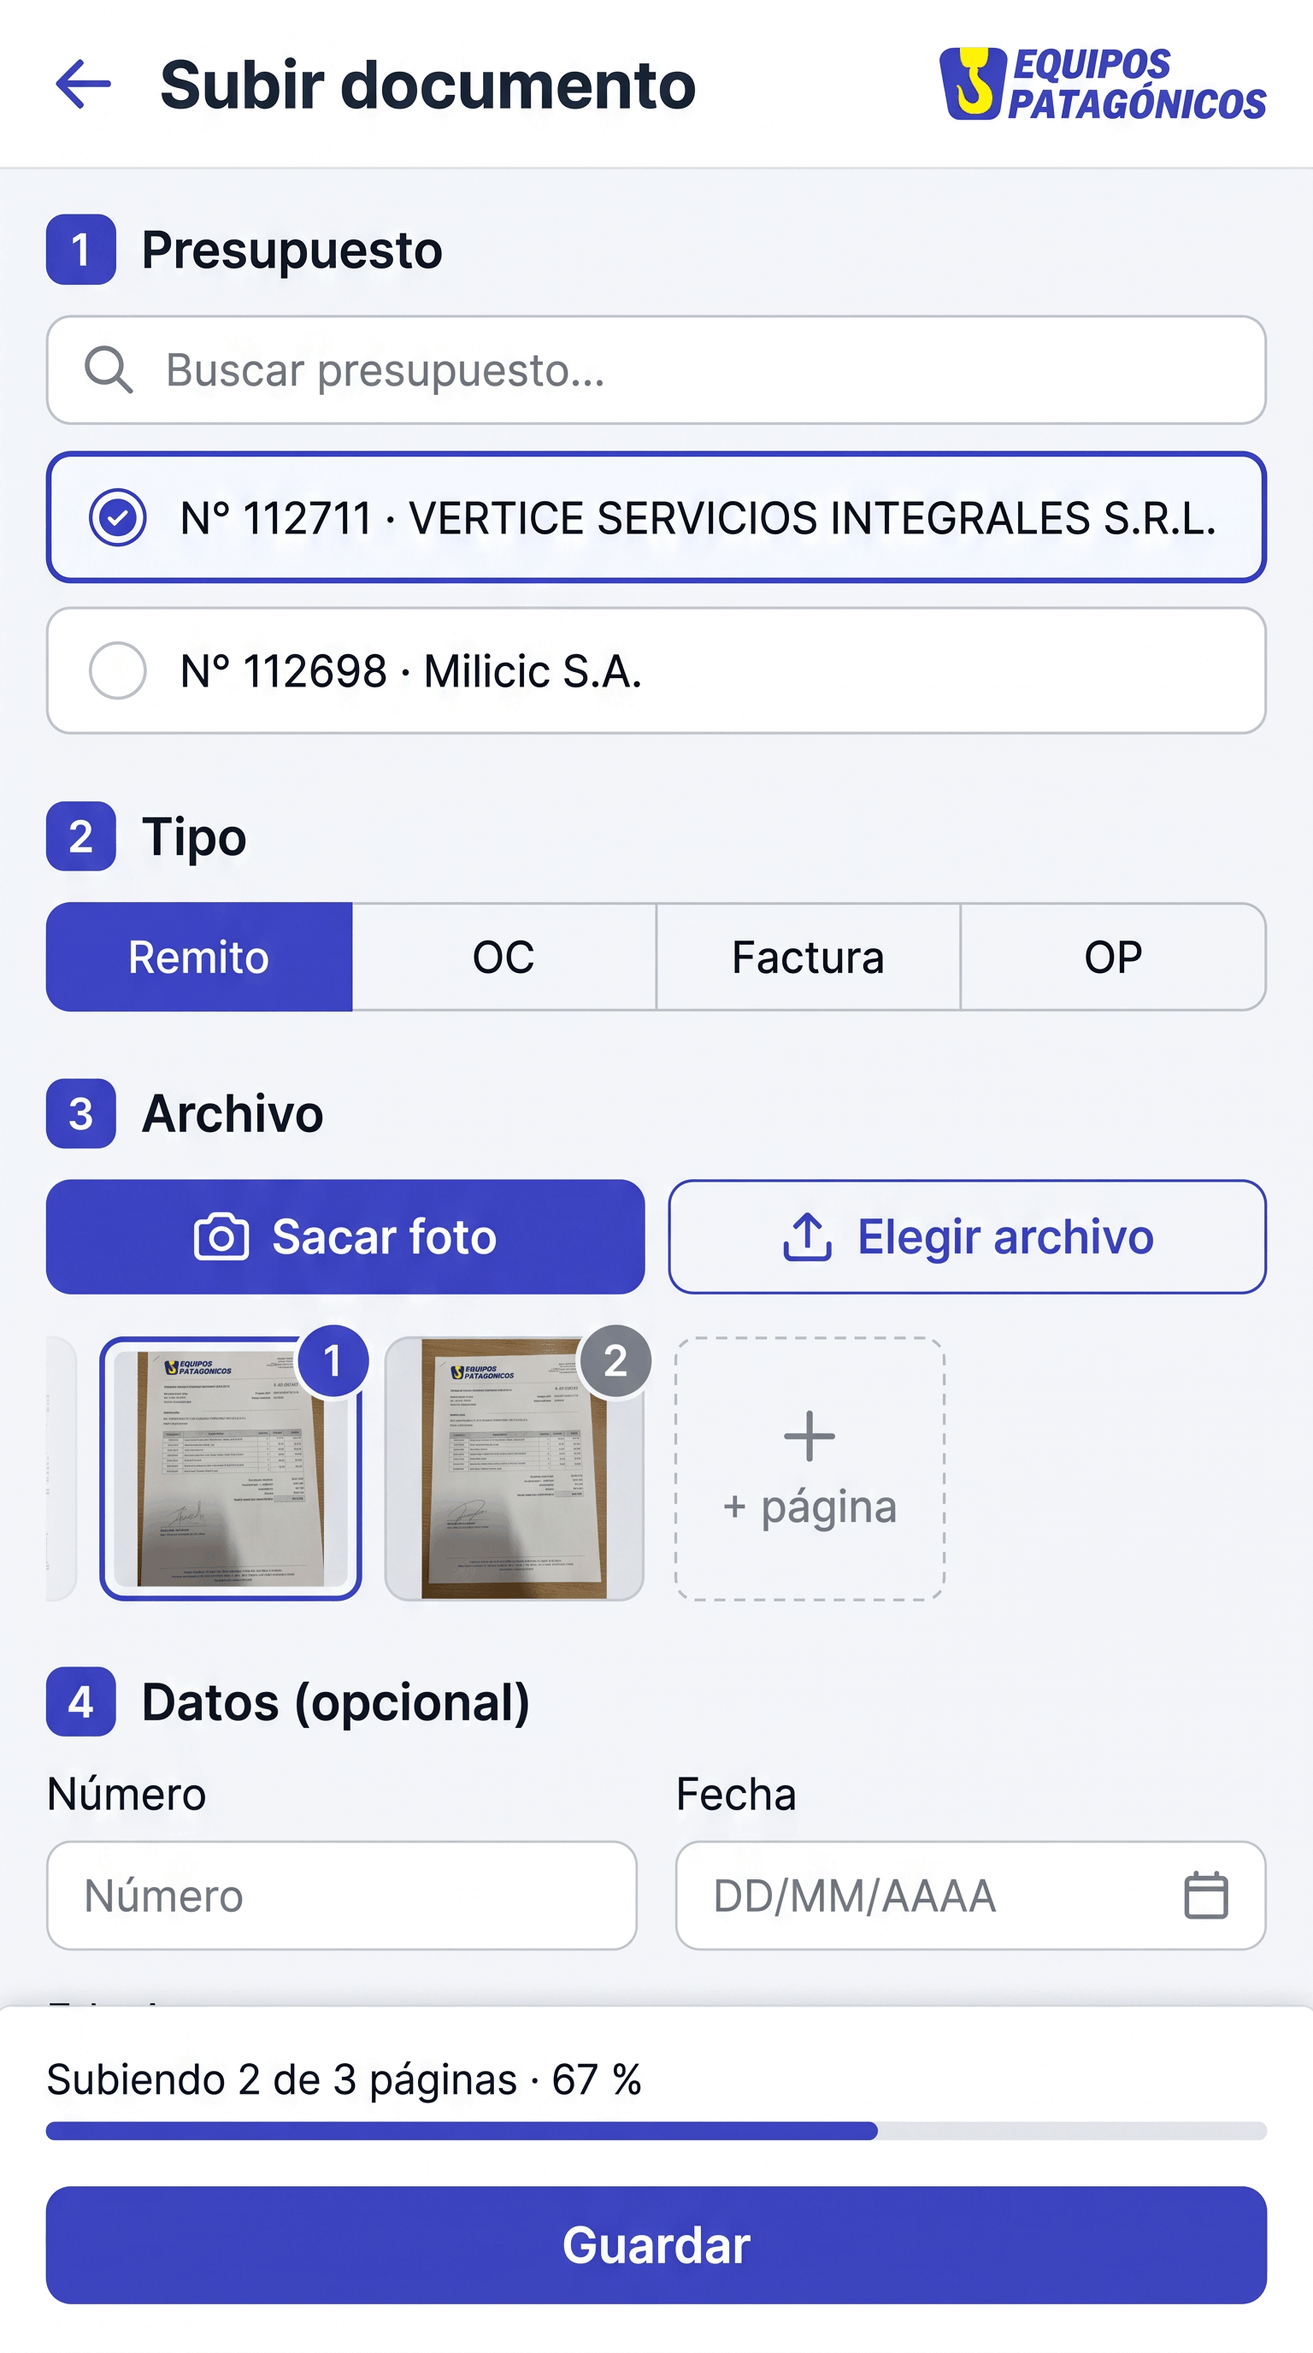
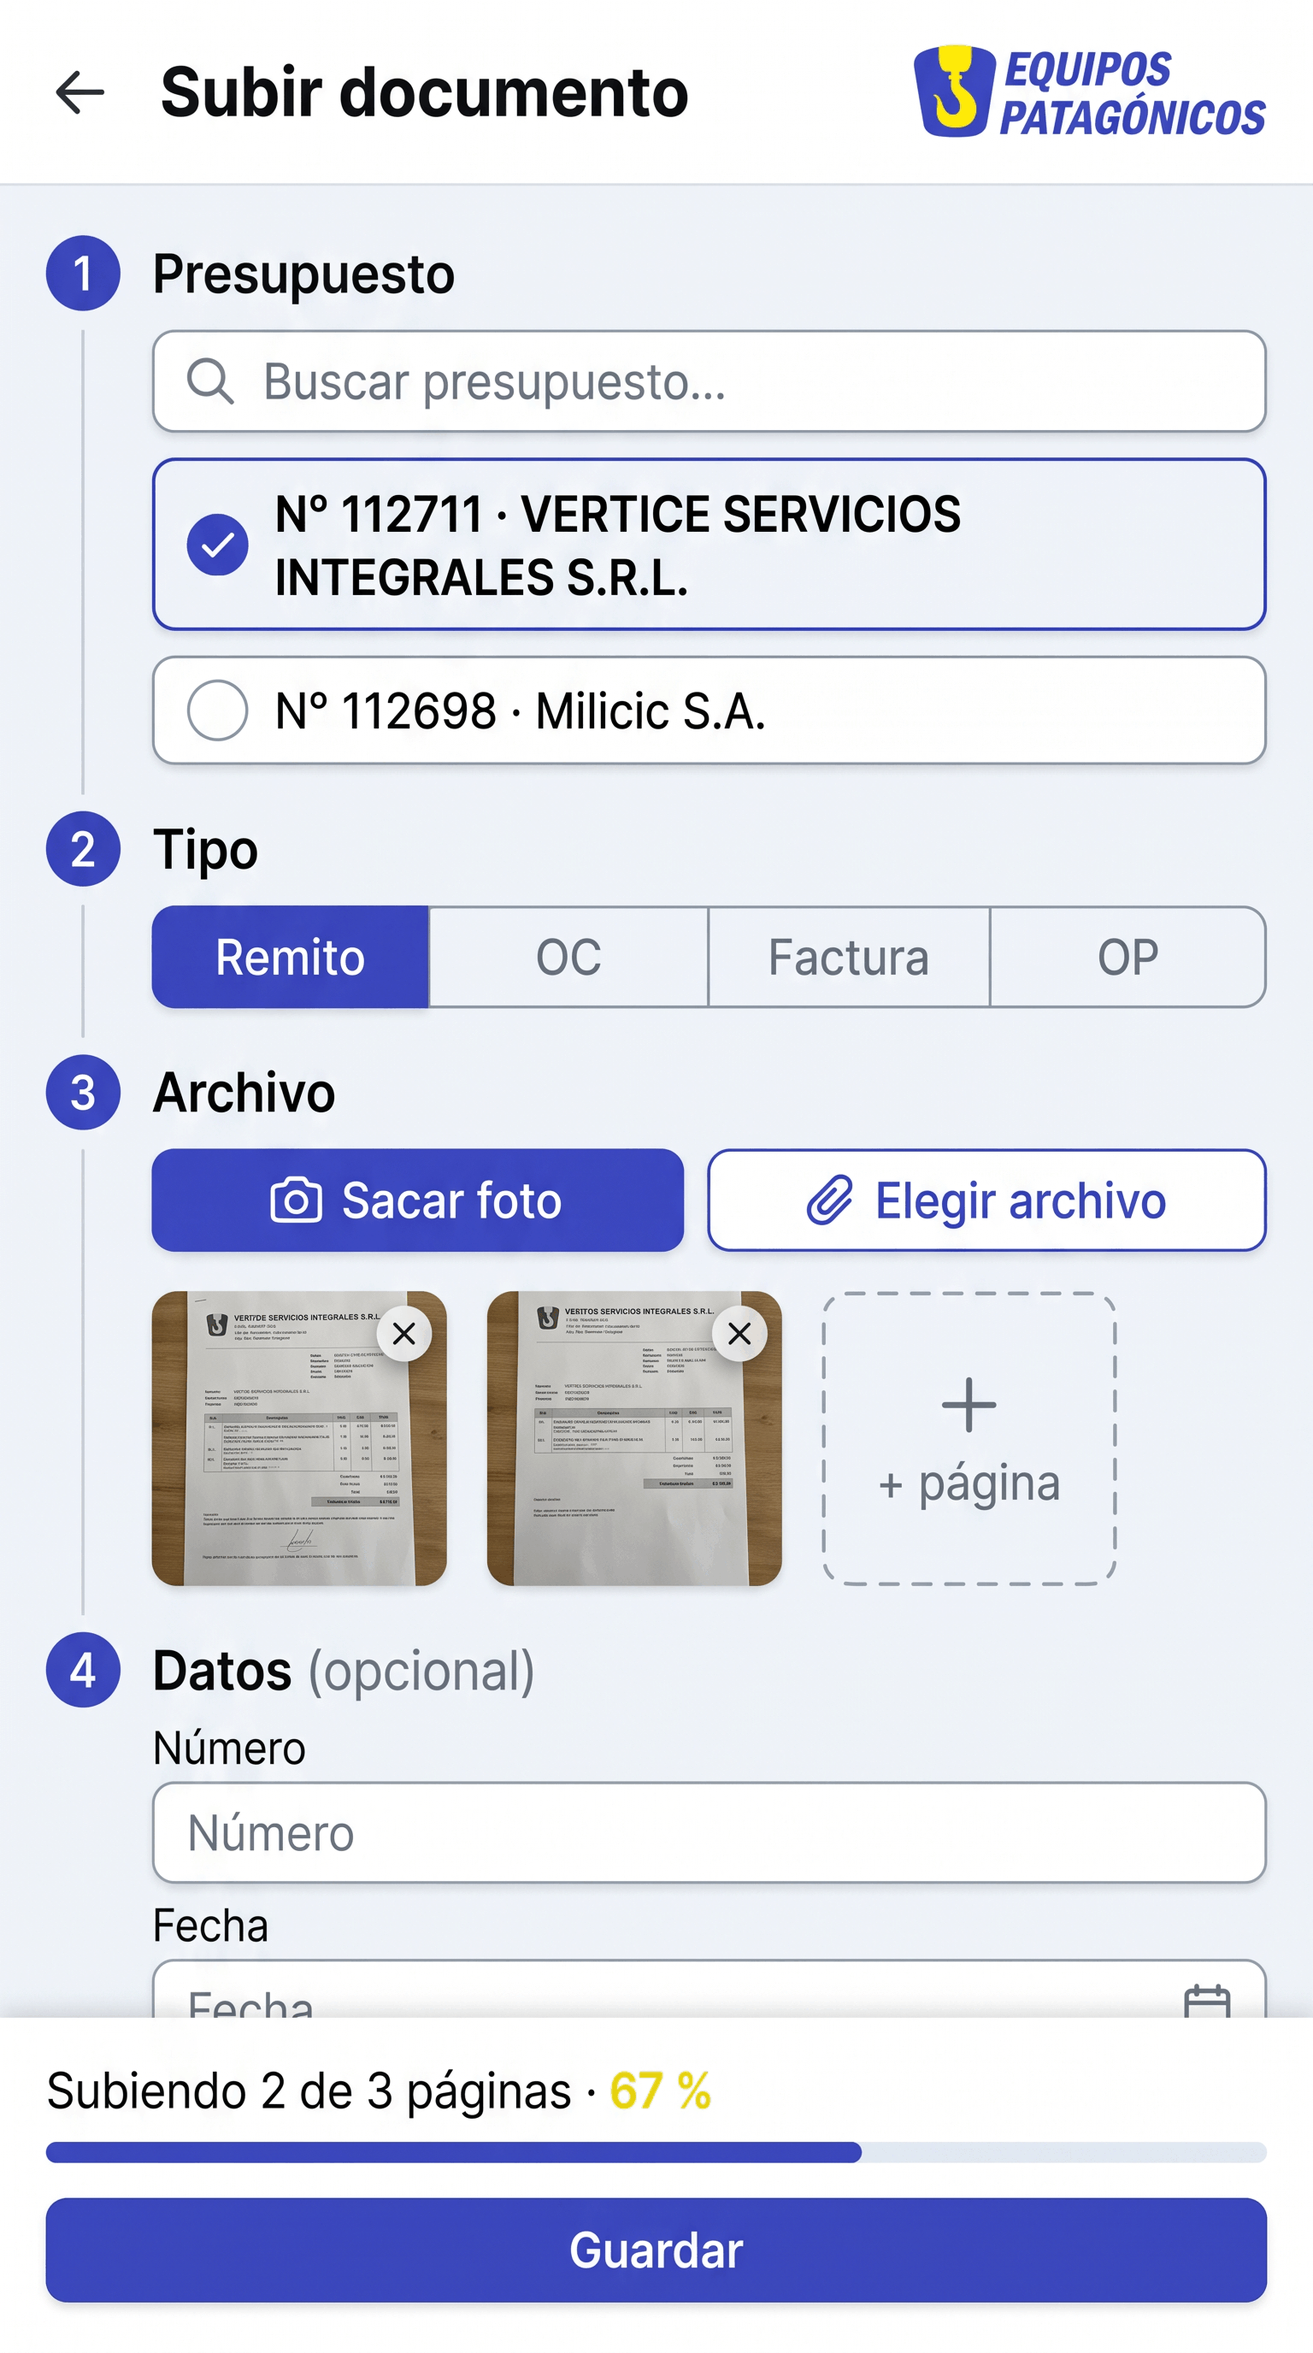
docs: rehacer las referencias de UI con la dirección SaaS premium

diff --git a/docs/diseno/referencias/README.md b/docs/diseno/referencias/README.md
@@ -13,44 +13,57 @@ Imágenes de referencia para el skill `frontend-from-generated-image`. Son el ob
 | `07-configuracion.png` | Índice de configuración | 2 (rediseño) |
 | `07b-configuracion-equipos.png` | Configuración › Equipos (pantalla de ejemplo) | 2 (rediseño) |
 
-## Cómo se generaron (2026-10-24)
+## Dirección visual: "SaaS premium"
+
+Elegida por Guido el 2026-10-24 entre cuatro direcciones generadas sobre la ficha de cliente: marca fuerte con sidebar azul, industrial con sidebar carbón y franja de seguridad, SaaS premium y ficha tipo CRM. Una primera tanda que mantenía el shell anterior quedó descartada por "simplona".
+
+Rasgos que se repiten en todas las pantallas:
+
+- **Shell:** sidebar gris muy claro con el logo arriba; ítems con íconos de línea; activo como fila teñida de azul con texto azul (no pastilla llena); menú de usuario "UE · Usuario E2E" con chevron al pie del sidebar; barra superior blanca y fina con el breadcrumb.
+- **Banda de portada:** degradé azul real → índigo con una trama tenue de ganchos de grúa. Se usa en fichas (cliente, presupuesto) con un recuadro blanco superpuesto al borde inferior, y en versión baja como encabezado de Inicio y Configuración. Las listas y el editor no la llevan.
+- **Superficies y tipografía:** tarjetas blancas con borde fino, radio de 12 px y sombras muy suaves; títulos grandes y finos; texto secundario gris.
+- **Color:** botón primario azul #3D47CC y secundarios con contorno; estados como pastillas con punto de color; el amarillo #E6DC1F solo como acento mínimo (variables sin completar).
+
+## Cómo se generaron
 
 - Modelo: fal.ai `google/nano-banana-2.1/edit`, resolución 2K, `thinking_level: high`, relación 3:2 (9:16 la de celular).
-- Entradas: el logo (`public/logo-equipos-patagonicos.png`) y una captura de la pantalla actual de Clientes, para mantener el sidebar, el logo y el encabezado existentes.
-- Salida comprimida a PNG de 256 colores (PSNR ≈ 48 dB contra el original).
-- Prompts de origen: `scratchpad/referencias-ui/prompts.md` de la sesión del plan 3A, ampliados con datos realistas.
+- La 06 se generó con el logo (`public/logo-equipos-patagonicos.png`) como única imagen de entrada. Las demás recibieron el logo y la 06 como referencia de estilo, para que todas sean hermanas.
+- Salida comprimida a PNG de 256 colores (PSNR ≈ 45–48 dB contra el original).
+- El contenido de cada pantalla sale de `scratchpad/referencias-ui/prompts.md` (sesión del plan 3A), ampliado con datos realistas.
 
-### Prefijo común (todas menos la 05)
+### Prompt de la 06 (define el estilo)
 
-> Image 1 is the brand logo: reproduce it exactly (yellow crane hook on blue + the words EQUIPOS PATAGONICOS in bold italic blue) at the top-left of the sidebar. Image 2 is a screenshot of the CURRENT app: keep its app shell (white left sidebar with the logo, nav items Inicio, Cotizaciones, Presupuestos, Clientes, Configuración with thin line icons, active item as a filled royal-blue rounded pill with white text; thin top header bar with a round blue avatar 'UE' and 'Usuario E2E' at the right) but redesign the content area into a more polished, refined version. Do not draw any floating developer badge or round 'N' button in the bottom-left corner.
+> Image 1 is the brand logo: reproduce it exactly. Screen: "Ficha de cliente" (client detail) of an internal admin web app for Equipos Patagónicos, a crane-rental company in Neuquén, Argentina. All UI text in Argentine Spanish. Desktop 1440×900, full-screen flat UI mockup. App shell: left sidebar with the logo and nav items Inicio, Cotizaciones, Presupuestos, Clientes (active), Configuración; user menu "UE" / "Usuario E2E". Content: breadcrumb, client header (name, CUIT, IVA, ubicación, status "Activo", secondary action "Desactivar"), a "Datos" editable form with "Guardar cambios", a "Contactos" section with "+ Agregar contacto" and 3 contacts with edit/delete. No quote history, no charts, no KPIs.
 >
-> Polished product UI screenshot of a desktop web app (1440×900) for "Equipos Patagónicos", a crane-rental company in Neuquén, Argentina. Internal admin & logistics tool, all UI text in Argentine Spanish. Brand: royal blue #3D47CC as primary, crane-hook yellow #E6DC1F as a small accent, neutral light gray surfaces, white cards. Clean, dense but calm, shadcn/ui-like components, 8px radius, subtle borders, Geist-like sans font, tabular numbers. Realistic data in pesos argentinos ($ 1.950.000,00). No lorem ipsum, no stock photos, no 3D. Full-screen flat UI mockup, straight-on, no device frame.
+> Visual direction — PREMIUM SAAS / EDITORIAL (in the spirit of Linear, Attio, Stripe Dashboard): a quiet light sidebar that blends with the canvas, compact nav with the active item as a subtle tinted row. The client page opens with a soft cover band (royal-blue to indigo mesh gradient with a very faint crane-hook line pattern at low opacity) and a large rounded-square company avatar overlapping its bottom edge; name in a refined display sans at ~30px, meta as quiet dot-separated text, status as a small green dot + "Activo". Below, a two-column grid: "Datos" as a clean form and "Contactos" as elegant person cards with initial avatars. 12px radii, very soft shadows, precise alignment, airy whitespace, yellow used only as a tiny accent.
 
-(La 06 se generó primero, como prueba, sin la frase del botón "N", y por eso lo muestra abajo a la izquierda: es el indicador de `next dev` y no forma parte del diseño.)
+### Prefijo común del resto (01–05, 07, 07b)
+
+> Image 1 is the brand logo: reproduce it exactly (yellow crane hook on blue + the words EQUIPOS PATAGÓNICOS in bold italic blue) at the top-left of the sidebar. Image 2 is the APPROVED design reference of this same product (its client detail page). Render a DIFFERENT screen of the same app in exactly the same visual language and app shell as image 2: quiet very light gray sidebar with the logo at the top, nav items Inicio, Cotizaciones, Presupuestos, Clientes, Configuración (exactly these five) with thin line icons and the active item as a subtle blue-tinted rounded row with blue text (not a filled pill), the user menu "UE · Usuario E2E" with a chevron at the bottom of the sidebar; a thin white top bar with the breadcrumb; Inter-like typography with refined display headings and muted gray secondary text; white surfaces, hairline borders, 12px radii, very soft shadows, royal-blue #3D47CC primary buttons, outline secondary buttons, green-dot status pills, airy but efficient spacing. Yellow #E6DC1F only as a tiny accent. The screen must feel like a sibling of image 2.
+>
+> Desktop web app 1440×900 for "Equipos Patagónicos", a crane-rental company in Neuquén, Argentina; internal admin & logistics tool; all UI text in Argentine Spanish; realistic data in pesos argentinos ($ 1.950.000,00); tabular numbers. No lorem ipsum, no stock photos, no 3D. Full-screen flat UI mockup, straight-on, no device frame, no floating developer badge.
 
 ### Parte específica de cada pantalla
 
-**01 — Inicio.** Screen: "Inicio" — work queues dashboard. Active nav item: Inicio. Header: title "Inicio" with a muted subtitle "Viernes 24 de octubre de 2026"; at the right a primary button "Nueva cotización" and an outline button "Subir documento" (upload icon). Five queue cards in a grid (3 cards on the first row, 2 wider cards on the second row). Each white card has a title, a count badge, 3–5 compact rows and a small action per row: "Seguimiento" (6): quotes sent without answer and about to expire — client, "N° 112711", "enviada hace 9 días", "vence en 2 días" in amber, contact phone with a phone icon, action "Registrar respuesta". "Falta OC" (3): presupuestos en curso sin orden de compra — number, client, amount, action "Cargar OC". "Para facturar" (4): remitos sin factura — "R 0001-00000456", period "01/10 – 15/10", equipo "XCMG 70 TN", amount, action "Facturar". "Cobranzas": big total "Pendiente $ 12.480.000,00"; invoices "FCE A 0003-00001245" with client and saldo, aging chips "30 d" gray, "45 d" amber, "60+ d" red; action "Registrar pago". "Actualización de tarifa" (2): presupuestos with ICTF adjustment in the next 30 days — client, presupuesto N°, "actualiza el 15/11/2026", action "Actualizar". Yellow accent used sparingly.
+**01 — Inicio.** Slim cover band with "Inicio", the date and the buttons "Subir documento" / "Nueva cotización". Five queue cards (3 + 2): "Seguimiento" (cotizaciones enviadas sin respuesta y por vencer: cliente, N°, días desde el envío, vencimiento en ámbar, teléfono del contacto, "Registrar respuesta"), "Falta OC" (presupuestos en curso sin OC, "Cargar OC"), "Para facturar" (remitos sin factura, período y equipo, "Facturar"), "Cobranzas" (total pendiente grande, facturas con saldo y antigüedad "30 d" / "45 d" / "60+ d", "Registrar pago"), "Actualización de tarifa" (presupuestos con ajuste ICTF en 30 días, "Actualizar").
 
-**02 — Cotizaciones.** Screen: "Cotizaciones" list. Header actions: primary "Nueva cotización", outline "Cargar existente", outline "Presupuesto directo". Filter bar: search "Buscar por N°, cliente o asunto", select "Estado" (Borrador, Enviada, Vencida, Aprobada, Rechazada), select "Cliente", date range. Table of ~10 rows: N°, Fecha, Cliente, Asunto, Formato (Mensual / Por jornada), Estado badges (Borrador gray, Enviada blue, Vencida amber, Aprobada green, Rechazada red), Vence el (amber when close), Acciones (ver PDF, duplicar, ⋯). Footer "Mostrando 1–10 de 48".
+**02 — Cotizaciones.** No band. Title with count; "Nueva cotización", "Cargar existente", "Presupuesto directo". Filters: search, Estado, Cliente, date range. Table: N°, Fecha, Cliente, Asunto, Formato, Importe, Estado (dot pills), Vence el, actions (PDF, duplicar, ⋯). Pagination.
 
-**03 — Editor de cotización.** Two columns. Breadcrumb "Cotizaciones / 112712", title "Cotización N° 112712" with gray "Borrador" badge; actions "Guardar", primary "Descargar y marcar enviada", "Aprobar". Left (~55%): section cards "Cliente" (client combobox + "Atte.: Yanina Colman"), "Datos de esta cotización" (Equipo, Ubicación, Horario, Plazo, Forma de pago, Próxima actualización), "Ítems" (Descripción, Cantidad, Precio, Unidad JORNADA/HORA/VIAJE, Total; sections "Precios Jornada" / "Precios Jornada Adicional"; drag handles; "+ Agregar ítem"), "Textos" (blocks with bold/bullet toolbar, up/down arrows, eye toggle). Right (~45%): sticky A4 PDF preview with the logo top-right, "Actualizar vista previa" button. Unfilled variables like "{{ubicacion}}" highlighted in yellow #E6DC1F.
+**03 — Editor de cotización.** No band. Title with "Borrador"; "Guardar", "Descargar y marcar enviada", "Aprobar". Left: cards Cliente (cliente + "Atte."), Datos de esta cotización, Ítems (secciones Precios Jornada / Precios Jornada Adicional, unidad JORNADA/HORA/VIAJE), Textos (toolbar, reordenar, ocultar). Right: sticky "Vista previa" with a static A4 page; unfilled variables like "{{ubicacion}}" highlighted in yellow.
 
-**04 — Detalle de presupuesto.** Breadcrumb "Presupuestos / 112711". Header "Presupuesto N° 112711 · VERTICE SERVICIOS INTEGRALES S.R.L." with blue "En curso" badge; actions "Finalizar", destructive ghost "Anular". Indicator tiles "OC 1", "Remitos 3", "Facturas 2", "OP 1" and "Saldo a cobrar $ 4.330.000,00". Four stacked section cards (Órdenes de compra, Remitos with "sin facturar" tag, Facturas with Pendiente/Parcial/Cobrada, Órdenes de pago with the invoice it cancels), each with "+" button, rows with number, date, amount, file thumbnail and ⋯ menu.
+**04 — Detalle de presupuesto.** Cover band with a document tile, "Presupuesto N° 112711", "En curso", cliente · equipo; "Finalizar" / "Anular". Stat tiles OC, Remitos, Facturas, OP, Saldo a cobrar. Stacked cards Órdenes de compra, Remitos ("Sin facturar"), Facturas (Pendiente / Parcial / Cobrada), Órdenes de pago, each with "+ Agregar", thumbnails and ⋯.
 
-**05 — Subir documento (celular).** Prefix adapted: image 2 only for visual language, mobile 390×844 without sidebar. Top bar with back arrow, logo and "Subir documento". Steps: 1 "Presupuesto" (search + selectable list, one selected with a blue ring), 2 "Tipo" (segmented Remito/OC/Factura/OP), 3 "Archivo" ("Sacar foto" primary, "Elegir archivo" outline, page thumbnails and dashed "+ página"), 4 "Datos (opcional)" (Número, Fecha). Upload progress "Subiendo 2 de 3 páginas · 67 %". Fixed full-width "Guardar".
+**05 — Subir documento (celular).** Top bar with back arrow, title and logo. Numbered steps: Presupuesto (search + selectable list), Tipo (segmented Remito/OC/Factura/OP), Archivo ("Sacar foto", "Elegir archivo", page thumbnails, "+ página"), Datos opcionales (Número, Fecha). Upload progress and fixed "Guardar".
 
-**06 — Ficha de cliente.** Breadcrumb "Clientes / VERTICE SERVICIOS INTEGRALES S.R.L.". Header with large company name, muted line "CUIT 30-71952967-0 · Responsable Inscripto · Neuquén, Neuquén", green "Activo" badge; at the right primary "Nueva cotización" and outline "Desactivar". Left (~60%): card "Datos" with a 2-column form (Razón social, CUIT, Condición frente al IVA, Email, Teléfono, Dirección, Localidad, Provincia, Condición de pago habitual, Notas) and "Guardar cambios" at the bottom right. Right (~40%): card "Contactos" with "+ Agregar", rows with name, cargo, email and phone with icons, edit/delete ghost buttons. Below, full width: card with tabs "Cotizaciones 8" / "Presupuestos 3" and a compact table (N°, Fecha, Asunto, Formato, Estado, Total) with "Ver todas".
+**07 — Configuración.** Slim cover band with "Configuración" and "Datos que usan las cotizaciones y sus PDF." 2×2 grid of clickable cards with a light-blue icon tile, title, description and chevron: Empresa, Firmantes, Equipos, Plantillas.
 
-**07 — Configuración.** Title "Configuración" with subtitle "Datos que usan las cotizaciones y sus PDF." 2×2 grid of large clickable white cards with a blue-tinted icon tile, title, one-line description and a chevron: Empresa, Firmantes, Equipos, Plantillas.
-
-**07b — Configuración › Equipos.** Breadcrumb "Configuración / Equipos", title "Equipos" with subtitle and primary "+ Nuevo equipo". A card with a list of cranes: blue-tinted icon tile, name, chips (capacidad, marca · modelo, patente), 2-line description, "Activo"/"Inactivo" badge, pencil button and "Desactivar"/"Activar" text button; inactive rows dimmed.
+**07b — Configuración › Equipos.** No band. Title, subtitle and "+ Nuevo equipo". A card listing cranes: icon tile, name, chips (capacidad, marca · modelo, patente), 2-line description, "Activo"/"Inactivo" pill, pencil button and "Desactivar"/"Activar"; inactive rows dimmed.
 
 ## Defectos conocidos de la generación
 
 No copiarlos al implementar:
 
-- 01: la etiqueta de antigüedad dice "Chip 45 d" (debería ser "45 d").
-- 03: la vista previa del PDF muestra selects editables dentro de la hoja y "Ctandidad".
-- 04: el sidebar repite "Presupuestos" (el segundo con el ícono de Clientes).
-- 06: el botón "N" abajo a la izquierda es el indicador de `next dev`.
+- 02: tilde junto al ítem activo del sidebar; "UE · Usuario E2E" con un punto que sobra (también en 07b).
+- 03: el bloque de Textos repite el ícono de ocultar.
+- 06: cada contacto repite los íconos de editar y borrar (van una sola vez, arriba a la derecha).
+- 05: el porcentaje de subida sale en amarillo (usar texto común).
